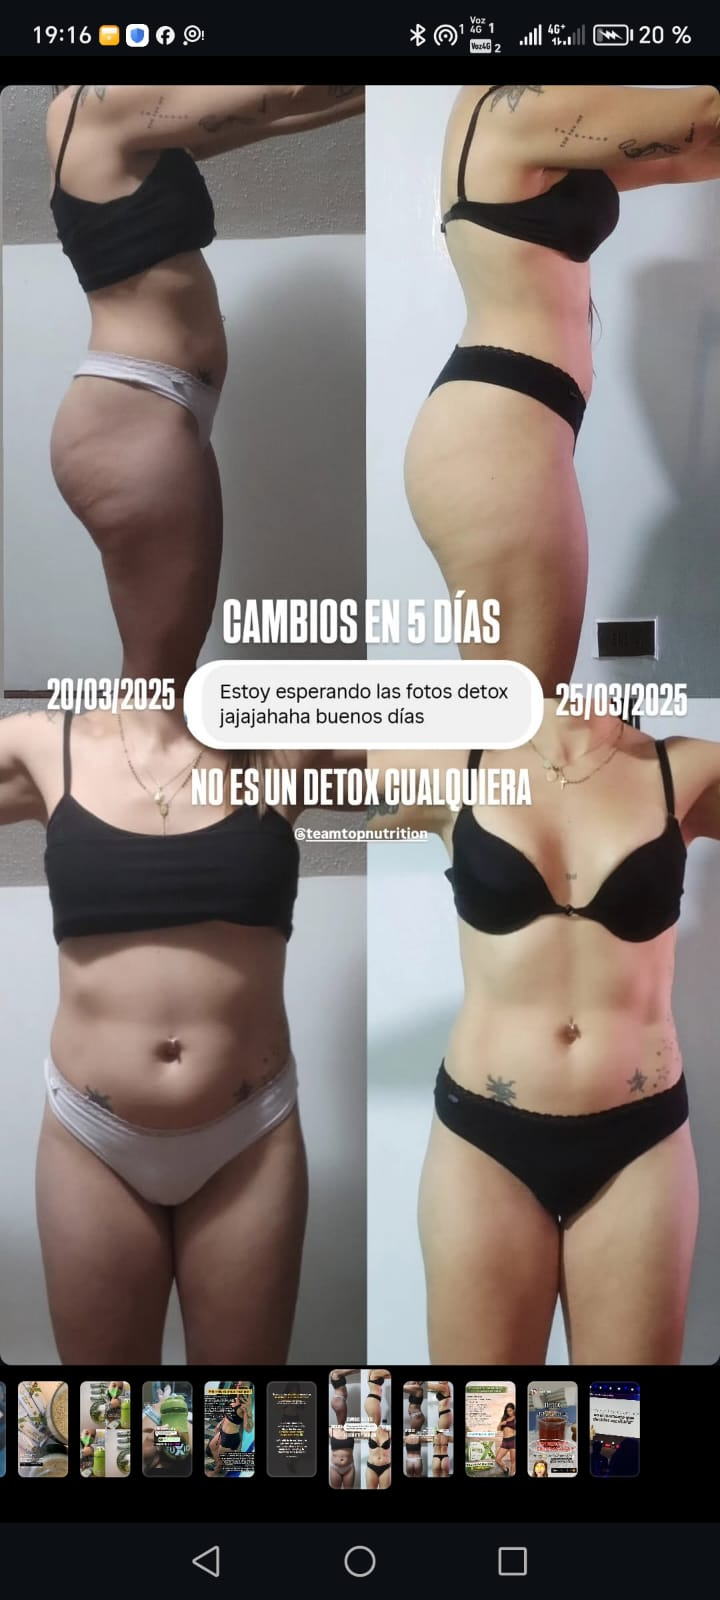
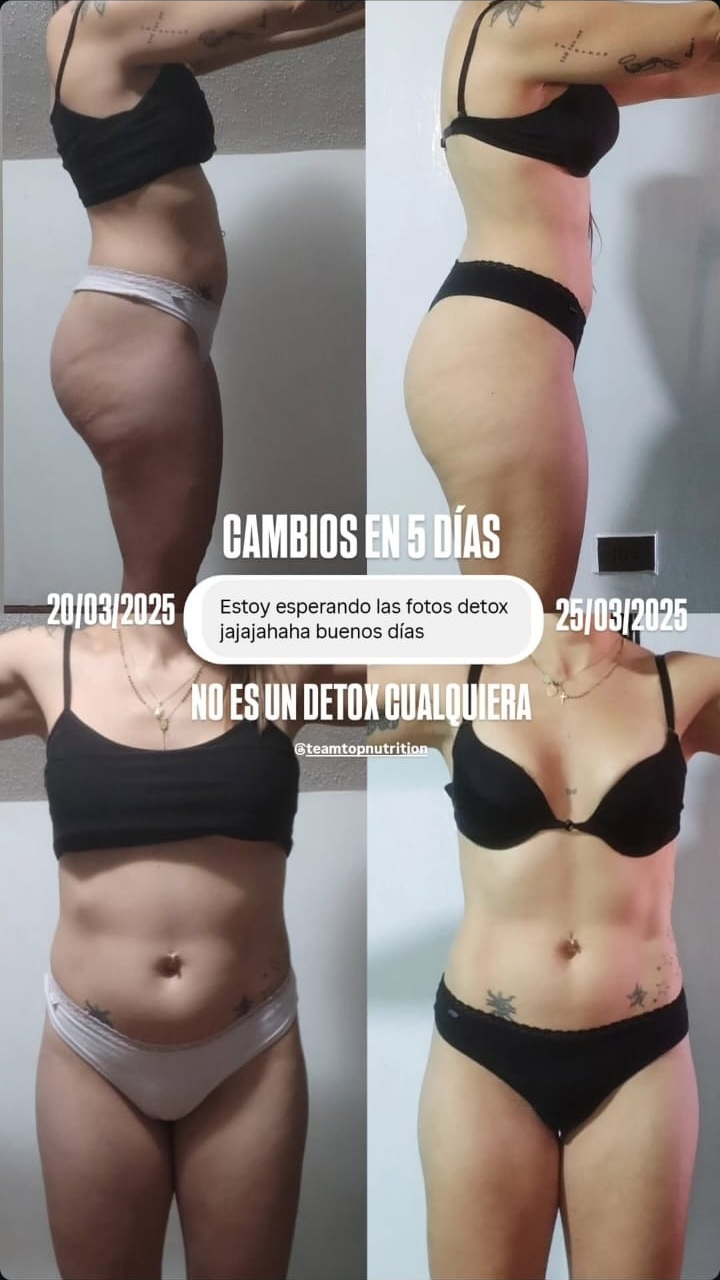
Actualizar fotos de testimonios y cambiar imágenes de planes 2 y 3
- Reemplaza las 4 fotos de testimonios por las versiones recortadas por Andrea.
- Plan 2 (Pérdida de Peso Acelerada) usa la foto de sentadillas (andrea-squat.jpg).
- Planes 2 y 3 muestran la foto completa en el recuadro (object-contain) en vez
  de recortarla para llenar el espacio.

diff --git a/index.html b/index.html
@@ -297,8 +297,8 @@
           <div class="absolute top-3 right-3 z-10 bg-brand-yellow text-black font-black text-xs px-4 py-1.5 rounded-full uppercase tracking-wider">
             Próximamente
           </div>
-          <div class="h-44 overflow-hidden">
-            <img src="assets/img/andrea-cutout.jpg" alt="Pérdida de Peso Acelerada" class="w-full h-full object-cover object-top bg-black group-hover:scale-105 transition-transform duration-300">
+          <div class="h-44 overflow-hidden bg-black">
+            <img src="assets/img/andrea-squat.jpg" alt="Pérdida de Peso Acelerada" class="w-full h-full object-contain group-hover:scale-105 transition-transform duration-300">
           </div>
           <div class="p-8 flex-1">
             <span class="text-xs font-bold uppercase tracking-widest text-brand-yellow">Paso 2 · Reducción</span>
@@ -325,8 +325,8 @@
           <div class="absolute top-3 right-3 z-10 bg-brand-yellow text-black font-black text-xs px-4 py-1.5 rounded-full uppercase tracking-wider">
             Próximamente
           </div>
-          <div class="h-44 overflow-hidden">
-            <img src="assets/img/abdomen.jpg" alt="Recomposición Corporal" class="w-full h-full object-cover object-center group-hover:scale-105 transition-transform duration-300">
+          <div class="h-44 overflow-hidden bg-black">
+            <img src="assets/img/abdomen.jpg" alt="Recomposición Corporal" class="w-full h-full object-contain group-hover:scale-105 transition-transform duration-300">
           </div>
           <div class="p-8 flex-1">
             <span class="text-xs font-bold uppercase tracking-widest text-brand-yellow">Paso 3 · Tonificación</span>
